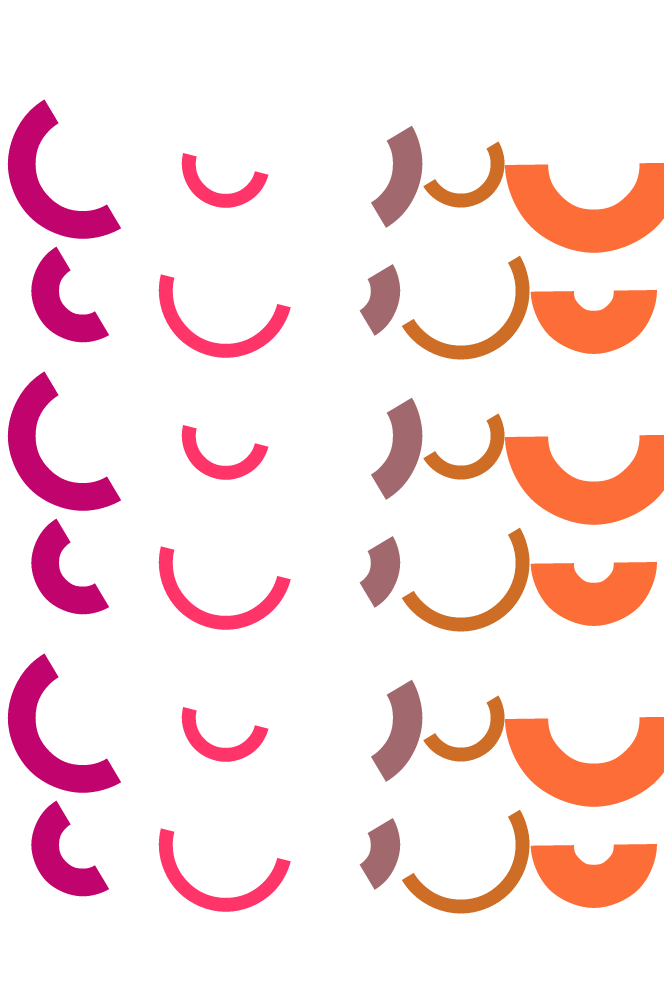
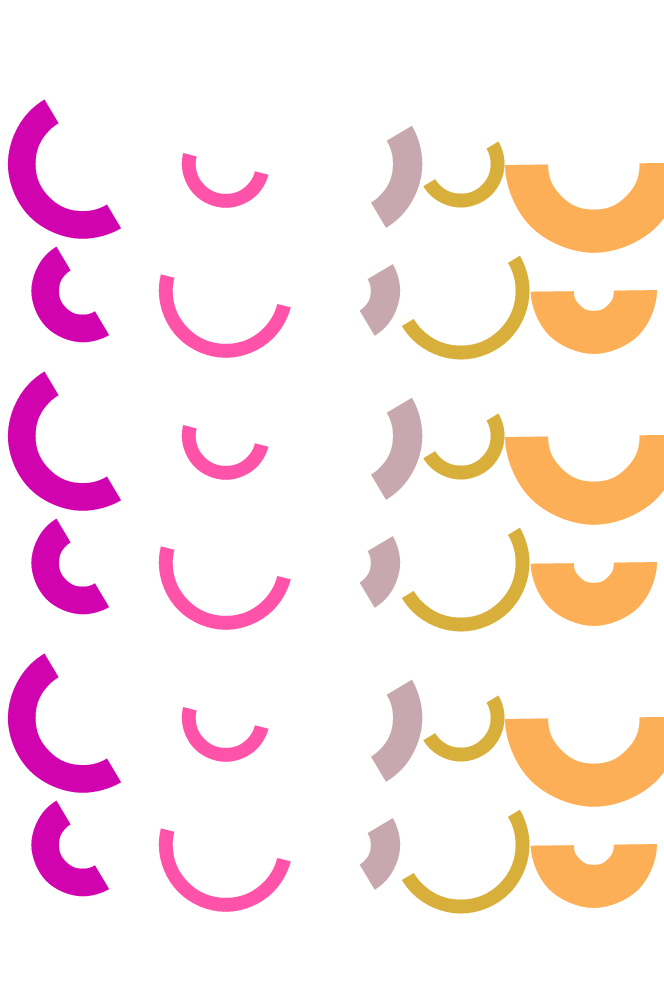
Animate colors through the gamma spectrum (#111)

diff --git a/lottie/src/main/java/com/airbnb/lottie/GammaEvaluator.java b/lottie/src/main/java/com/airbnb/lottie/GammaEvaluator.java
@@ -1,0 +1,61 @@
+package com.airbnb.lottie;
+
+/**
+ * Use this instead of {@link android.animation.ArgbEvaluator} because it interpolates through the gamma color
+ * space which looks better to us humans.
+ * <p>
+ * Writted by Romain Guy and Francois Blavoet.
+ * https://androidstudygroup.slack.com/archives/animation/p1476461064000335
+ */
+class GammaEvaluator {
+
+  // Opto-electronic conversion function for the sRGB color space
+  // Takes a gamma-encoded sRGB value and converts it to a linear sRGB value
+  private static float OECF_sRGB(float linear) {
+    // IEC 61966-2-1:1999
+    return linear <= 0.0031308f ?
+        linear * 12.92f : (float) ((Math.pow(linear, 1.0f / 2.4f) * 1.055f) - 0.055f);
+  }
+
+  // Electro-optical conversion function for the sRGB color space
+  // Takes a linear sRGB value and converts it to a gamma-encoded sRGB value
+  private static float EOCF_sRGB(float srgb) {
+    // IEC 61966-2-1:1999
+    return srgb <= 0.04045f ? srgb / 12.92f : (float) Math.pow((srgb + 0.055f) / 1.055f, 2.4f);
+  }
+
+  static int evaluate(float fraction, int startInt, int endInt) {
+    float startA = ((startInt >> 24) & 0xff) / 255.0f;
+    float startR = ((startInt >> 16) & 0xff) / 255.0f;
+    float startG = ((startInt >> 8) & 0xff) / 255.0f;
+    float startB = (startInt & 0xff) / 255.0f;
+
+    float endA = ((endInt >> 24) & 0xff) / 255.0f;
+    float endR = ((endInt >> 16) & 0xff) / 255.0f;
+    float endG = ((endInt >> 8) & 0xff) / 255.0f;
+    float endB = (endInt & 0xff) / 255.0f;
+
+    // convert from sRGB to linear
+    startR = EOCF_sRGB(startR);
+    startG = EOCF_sRGB(startG);
+    startB = EOCF_sRGB(startB);
+
+    endR = EOCF_sRGB(endR);
+    endG = EOCF_sRGB(endG);
+    endB = EOCF_sRGB(endB);
+
+    // compute the interpolated color in linear space
+    float a = startA + fraction * (endA - startA);
+    float r = startR + fraction * (endR - startR);
+    float g = startG + fraction * (endG - startG);
+    float b = startB + fraction * (endB - startB);
+
+    // convert back to sRGB in the [0..255] range
+    a = a * 255.0f;
+    r = OECF_sRGB(r) * 255.0f;
+    g = OECF_sRGB(g) * 255.0f;
+    b = OECF_sRGB(b) * 255.0f;
+
+    return Math.round(a) << 24 | Math.round(r) << 16 | Math.round(g) << 8 | Math.round(b);
+  }
+}

diff --git a/lottie/src/main/java/com/airbnb/lottie/ColorKeyframeAnimation.java b/lottie/src/main/java/com/airbnb/lottie/ColorKeyframeAnimation.java
@@ -1,11 +1,8 @@
 package com.airbnb.lottie;
 
-import android.animation.ArgbEvaluator;
-
 import java.util.List;
 
 class ColorKeyframeAnimation extends KeyframeAnimation<Integer> {
-  private final ArgbEvaluator argbEvaluator = new ArgbEvaluator();
 
   ColorKeyframeAnimation(List<Keyframe<Integer>> keyframes) {
     super(keyframes);
@@ -15,6 +12,6 @@ class ColorKeyframeAnimation extends KeyframeAnimation<Integer> {
     int startColor = keyframe.startValue;
     int endColor = keyframe.endValue;
 
-    return (Integer) argbEvaluator.evaluate(keyframeProgress, startColor, endColor);
+    return GammaEvaluator.evaluate(keyframeProgress, startColor, endColor);
   }
 }
